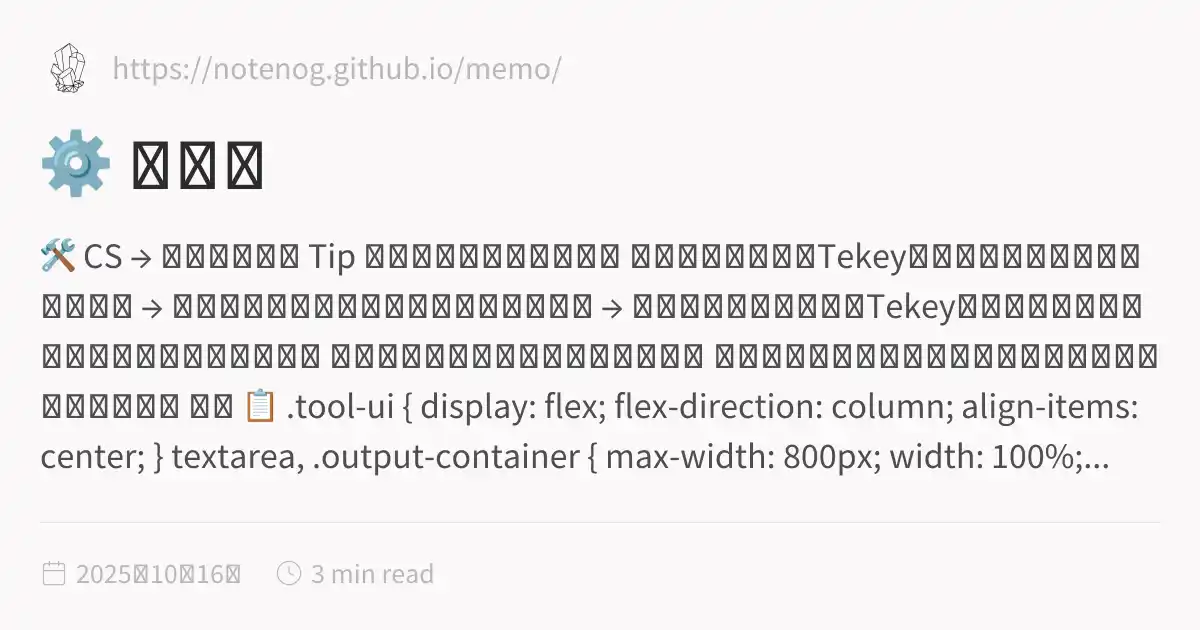
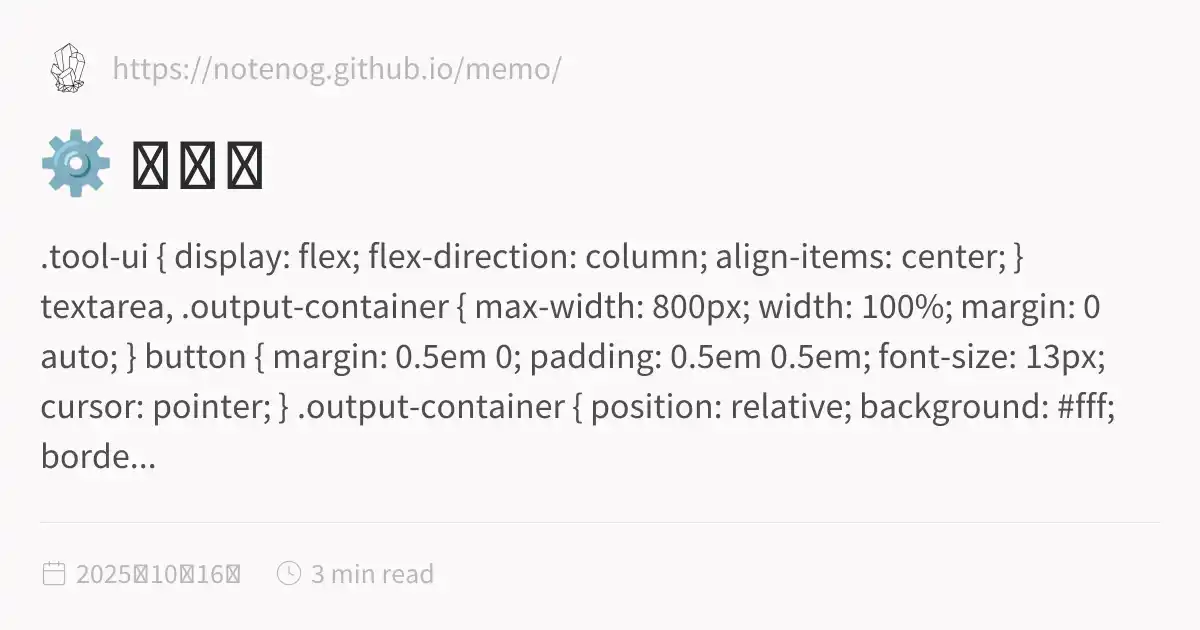
fix: Final push of clean assets with all content emitters disabled

Changed region(s): [[0.0308, 0.5429, 0.9867, 0.754], [0.0308, 0.3619, 0.9558, 0.5127]]

diff --git a/docs/inSANe_old/tool.html b/docs/inSANe_old/tool.html
@@ -1,5 +1,5 @@
 <!DOCTYPE html>
-<html lang="ja" dir="ltr"><head><title>⚙ ツール</title><meta charset="utf-8"/><link rel="preconnect" href="https://fonts.googleapis.com"/><link rel="preconnect" href="https://fonts.gstatic.com"/><link rel="stylesheet" href="https://fonts.googleapis.com/css2?family=Schibsted Grotesk:wght@400;700&amp;family=Source Sans Pro:ital,wght@0,400;0,600;1,400;1,600&amp;family=IBM Plex Mono:wght@400;600&amp;display=swap"/><link rel="preconnect" href="https://cdnjs.cloudflare.com" crossorigin="anonymous"/><meta name="viewport" content="width=device-width, initial-scale=1.0"/><meta name="og:site_name" content="MEMO"/><meta property="og:title" content="⚙ ツール"/><meta property="og:type" content="website"/><meta name="twitter:card" content="summary_large_image"/><meta name="twitter:title" content="⚙ ツール"/><meta name="twitter:description" content="🛠 CS → コマ情報整形 Tip キャラクターシート倉庫 さん上部にある「Tekeyフォーマット出力」をクリック → 全文をコピーして下部エリアにペースト → 「変換」をクリックでTekeyのコマ用に整形された文章が表示されます。 インセインにしか対応していません また、ｇのセッション周りのみでの使用を想定してます 変換 📋 .tool-ui { display: flex; flex-direction: column; align-items: center; } textarea, .output-container { max-width: 800px; width: 100%;..."/><meta property="og:description" content="🛠 CS → コマ情報整形 Tip キャラクターシート倉庫 さん上部にある「Tekeyフォーマット出力」をクリック → 全文をコピーして下部エリアにペースト → 「変換」をクリックでTekeyのコマ用に整形された文章が表示されます。 インセインにしか対応していません また、ｇのセッション周りのみでの使用を想定してます 変換 📋 .tool-ui { display: flex; flex-direction: column; align-items: center; } textarea, .output-container { max-width: 800px; width: 100%;..."/><meta property="og:image:alt" content="🛠 CS → コマ情報整形 Tip キャラクターシート倉庫 さん上部にある「Tekeyフォーマット出力」をクリック → 全文をコピーして下部エリアにペースト → 「変換」をクリックでTekeyのコマ用に整形された文章が表示されます。 インセインにしか対応していません また、ｇのセッション周りのみでの使用を想定してます 変換 📋 .tool-ui { display: flex; flex-direction: column; align-items: center; } textarea, .output-container { max-width: 800px; width: 100%;..."/><meta property="twitter:domain" content="https://notenog.github.io/memo/"/><meta property="og:url" content="https://https//notenog.github.io/memo/inSANe_old/tool"/><meta property="twitter:url" content="https://https//notenog.github.io/memo/inSANe_old/tool"/><link rel="icon" href="../static/icon.png"/><meta name="description" content="🛠 CS → コマ情報整形 Tip キャラクターシート倉庫 さん上部にある「Tekeyフォーマット出力」をクリック → 全文をコピーして下部エリアにペースト → 「変換」をクリックでTekeyのコマ用に整形された文章が表示されます。 インセインにしか対応していません また、ｇのセッション周りのみでの使用を想定してます 変換 📋 .tool-ui { display: flex; flex-direction: column; align-items: center; } textarea, .output-container { max-width: 800px; width: 100%;..."/><meta name="generator" content="Quartz"/><link href="../index.css" rel="stylesheet" type="text/css" spa-preserve/><style>.expand-button {
+<html lang="ja" dir="ltr"><head><title>⚙ ツール</title><meta charset="utf-8"/><link rel="preconnect" href="https://fonts.googleapis.com"/><link rel="preconnect" href="https://fonts.gstatic.com"/><link rel="stylesheet" href="https://fonts.googleapis.com/css2?family=Schibsted Grotesk:wght@400;700&amp;family=Source Sans Pro:ital,wght@0,400;0,600;1,400;1,600&amp;family=IBM Plex Mono:wght@400;600&amp;display=swap"/><link rel="preconnect" href="https://cdnjs.cloudflare.com" crossorigin="anonymous"/><meta name="viewport" content="width=device-width, initial-scale=1.0"/><meta name="og:site_name" content="MEMO"/><meta property="og:title" content="⚙ ツール"/><meta property="og:type" content="website"/><meta name="twitter:card" content="summary_large_image"/><meta name="twitter:title" content="⚙ ツール"/><meta name="twitter:description" content=".tool-ui { display: flex; flex-direction: column; align-items: center; } textarea, .output-container { max-width: 800px; width: 100%; margin: 0 auto; } button { margin: 0.5em 0; padding: 0.5em 0.5em; font-size: 13px; cursor: pointer; } .output-container { position: relative; background: #fff; borde..."/><meta property="og:description" content=".tool-ui { display: flex; flex-direction: column; align-items: center; } textarea, .output-container { max-width: 800px; width: 100%; margin: 0 auto; } button { margin: 0.5em 0; padding: 0.5em 0.5em; font-size: 13px; cursor: pointer; } .output-container { position: relative; background: #fff; borde..."/><meta property="og:image:alt" content=".tool-ui { display: flex; flex-direction: column; align-items: center; } textarea, .output-container { max-width: 800px; width: 100%; margin: 0 auto; } button { margin: 0.5em 0; padding: 0.5em 0.5em; font-size: 13px; cursor: pointer; } .output-container { position: relative; background: #fff; borde..."/><meta property="twitter:domain" content="https://notenog.github.io/memo/"/><meta property="og:url" content="https://https//notenog.github.io/memo/inSANe_old/tool"/><meta property="twitter:url" content="https://https//notenog.github.io/memo/inSANe_old/tool"/><link rel="icon" href="../static/icon.png"/><meta name="description" content=".tool-ui { display: flex; flex-direction: column; align-items: center; } textarea, .output-container { max-width: 800px; width: 100%; margin: 0 auto; } button { margin: 0.5em 0; padding: 0.5em 0.5em; font-size: 13px; cursor: pointer; } .output-container { position: relative; background: #fff; borde..."/><meta name="generator" content="Quartz"/><link href="../index.css" rel="stylesheet" type="text/css" spa-preserve/><style>.expand-button {
   position: absolute;
   display: flex;
   float: right;
@@ -116,43 +116,7 @@ pre:hover > .expand-button {
   padding: 0 12px;
   font-size: 14px;
 }
[1 lines of base64/hex data omitted]
-<hr/>
-<blockquote class="callout tip" data-callout="tip">
-<div class="callout-title">
-                  <div class="callout-icon"></div>
-                  <div class="callout-title-inner"><p>Tip</p></div>
-                  
-                </div>
-<div class="callout-content">
-<p><a href="https://character-sheets.appspot.com/" class="external">キャラクターシート倉庫<svg aria-hidden="true" class="external-icon" style="max-width:0.8em;max-height:0.8em;" viewBox="0 0 512 512"><path d="M320 0H288V64h32 82.7L201.4 265.4 178.7 288 224 333.3l22.6-22.6L448 109.3V192v32h64V192 32 0H480 320zM32 32H0V64 480v32H32 456h32V480 352 320H424v32 96H64V96h96 32V32H160 32z"></path></svg></a> さん上部にある「Tekeyフォーマット出力」をクリック →<br/>
-全文をコピーして下部エリアにペースト →<br/>
-「変換」をクリックでTekeyのコマ用に整形された文章が表示されます。</p>
-</div>
-</blockquote>
-<blockquote class="callout warning" data-callout="warning">
-<div class="callout-title">
-                  <div class="callout-icon"></div>
-                  <div class="callout-title-inner"><p>インセインにしか対応していません <br/>また、ｇのセッション周りのみでの使用を想定してます</p></div>
-                  
-                </div>
-</blockquote>
-<p><br/><br/></p>
-
-<div class="tool-ui">
-<div class="tool-ui">
-  <textarea id="input" placeholder="ここにコピペ"></textarea>
-  <br/>
-  <button onclick="convert()">変換</button>
-<p><br/><br/></p>
-  <div class="output-container">
-    <button class="copy-button" onclick="copyOutput()">📋</button>
-    <pre id="output"></pre>
-  </div>
-</div>
-<p><br/><br/><br/></p>
-
-<style>
[1 lines of base64/hex data omitted]
 
 .tool-ui {
   display: flex;
@@ -198,6 +162,41 @@ pre:hover > .expand-button {
     background: #ddd;
   }
 </style>
+<h2 id="-cs--コマ情報整形">🛠 CS → コマ情報整形<a role="anchor" aria-hidden="true" tabindex="-1" data-no-popover="true" href="#-cs--コマ情報整形" class="internal"><svg width="18" height="18" viewBox="0 0 24 24" fill="none" stroke="currentColor" stroke-width="2" stroke-linecap="round" stroke-linejoin="round"><path d="M10 13a5 5 0 0 0 7.54.54l3-3a5 5 0 0 0-7.07-7.07l-1.72 1.71"></path><path d="M14 11a5 5 0 0 0-7.54-.54l-3 3a5 5 0 0 0 7.07 7.07l1.71-1.71"></path></svg></a></h2>
+<hr/>
+<blockquote class="callout tip" data-callout="tip">
+<div class="callout-title">
+                  <div class="callout-icon"></div>
+                  <div class="callout-title-inner"><p>Tip</p></div>
+                  
+                </div>
+<div class="callout-content">
+<p><a href="https://character-sheets.appspot.com/" class="external">キャラクターシート倉庫<svg aria-hidden="true" class="external-icon" style="max-width:0.8em;max-height:0.8em;" viewBox="0 0 512 512"><path d="M320 0H288V64h32 82.7L201.4 265.4 178.7 288 224 333.3l22.6-22.6L448 109.3V192v32h64V192 32 0H480 320zM32 32H0V64 480v32H32 456h32V480 352 320H424v32 96H64V96h96 32V32H160 32z"></path></svg></a> さん上部にある「Tekeyフォーマット出力」をクリック →<br/>
+全文をコピーして下部エリアにペースト →<br/>
+「変換」をクリックでTekeyのコマ用に整形された文章が表示されます。</p>
+</div>
+</blockquote>
+<blockquote class="callout warning" data-callout="warning">
+<div class="callout-title">
+                  <div class="callout-icon"></div>
+                  <div class="callout-title-inner"><p>インセインにしか対応していません <br/>また、ｇのセッション周りのみでの使用を想定してます</p></div>
+                  
+                </div>
+</blockquote>
+<p><br/><br/></p>
+
+<div class="tool-ui">
+<div class="tool-ui">
+  <textarea id="input" placeholder="ここにコピペ"></textarea>
+  <br/>
+  <button onclick="convert()">変換</button>
+<p><br/><br/></p>
+  <div class="output-container">
+    <button class="copy-button" onclick="copyOutput()">📋</button>
+    <pre id="output"></pre>
+  </div>
+</div>
+<p><br/><br/><br/></p>
 
 <script>
 

diff --git a/docs/inSANe_old/index.html b/docs/inSANe_old/index.html
@@ -116,6 +116,6 @@ pre:hover > .expand-button {
   padding: 0 12px;
   font-size: 14px;
 }
[2 lines of base64/hex data omitted]
 </script><script type="module">function f(i,e){if(!i)return;function r(o){o.target===this&&(o.preventDefault(),o.stopPropagation(),e())}function t(o){o.key.startsWith("Esc")&&(o.preventDefault(),e())}i?.addEventListener("click",r),window.addCleanup(()=>i?.removeEventListener("click",r)),document.addEventListener("keydown",t),window.addCleanup(()=>document.removeEventListener("keydown",t))}function y(i){for(;i.firstChild;)i.removeChild(i.firstChild)}var h=class{constructor(e,r){this.container=e;this.content=r;this.setupEventListeners(),this.setupNavigationControls(),this.resetTransform()}isDragging=!1;startPan={x:0,y:0};currentPan={x:0,y:0};scale=1;MIN_SCALE=.5;MAX_SCALE=3;cleanups=[];setupEventListeners(){let e=this.onMouseDown.bind(this),r=this.onMouseMove.bind(this),t=this.onMouseUp.bind(this),o=this.resetTransform.bind(this);this.container.addEventListener("mousedown",e),document.addEventListener("mousemove",r),document.addEventListener("mouseup",t),window.addEventListener("resize",o),this.cleanups.push(()=>this.container.removeEventListener("mousedown",e),()=>document.removeEventListener("mousemove",r),()=>document.removeEventListener("mouseup",t),()=>window.removeEventListener("resize",o))}cleanup(){for(let e of this.cleanups)e()}setupNavigationControls(){let e=document.createElement("div");e.className="mermaid-controls";let r=this.createButton("+",()=>this.zoom(.1)),t=this.createButton("-",()=>this.zoom(-.1)),o=this.createButton("Reset",()=>this.resetTransform());e.appendChild(t),e.appendChild(o),e.appendChild(r),this.container.appendChild(e)}createButton(e,r){let t=document.createElement("button");return t.textContent=e,t.className="mermaid-control-button",t.addEventListener("click",r),window.addCleanup(()=>t.removeEventListener("click",r)),t}onMouseDown(e){e.button===0&&(this.isDragging=!0,this.startPan={x:e.clientX-this.currentPan.x,y:e.clientY-this.currentPan.y},this.container.style.cursor="grabbing")}onMouseMove(e){this.isDragging&&(e.preventDefault(),this.currentPan={x:e.clientX-this.startPan.x,y:e.clientY-this.startPan.y},this.updateTransform())}onMouseUp(){this.isDragging=!1,this.container.style.cursor="grab"}zoom(e){let r=Math.min(Math.max(this.scale+e,this.MIN_SCALE),this.MAX_SCALE),t=this.content.getBoundingClientRect(),o=t.width/2,n=t.height/2,c=r-this.scale;this.currentPan.x-=o*c,this.currentPan.y-=n*c,this.scale=r,this.updateTransform()}updateTransform(){this.content.style.transform=`translate(${this.currentPan.x}px, ${this.currentPan.y}px) scale(${this.scale})`}resetTransform(){this.scale=1;let e=this.content.querySelector("svg");this.currentPan={x:e.getBoundingClientRect().width/2,y:e.getBoundingClientRect().height/2},this.updateTransform()}},C=["--secondary","--tertiary","--gray","--light","--lightgray","--highlight","--dark","--darkgray","--codeFont"],E;document.addEventListener("nav",async()=>{let e=document.querySelector(".center").querySelectorAll("code.mermaid");if(e.length===0)return;E||=await import("https://cdnjs.cloudflare.com/ajax/libs/mermaid/11.4.0/mermaid.esm.min.mjs");let r=E.default,t=new WeakMap;for(let n of e)t.set(n,n.innerText);async function o(){for(let s of e){s.removeAttribute("data-processed");let a=t.get(s);a&&(s.innerHTML=a)}let n=C.reduce((s,a)=>(s[a]=window.getComputedStyle(document.documentElement).getPropertyValue(a),s),{}),c=document.documentElement.getAttribute("saved-theme")==="dark";r.initialize({startOnLoad:!1,securityLevel:"loose",theme:c?"dark":"base",themeVariables:{fontFamily:n["--codeFont"],primaryColor:n["--light"],primaryTextColor:n["--darkgray"],primaryBorderColor:n["--tertiary"],lineColor:n["--darkgray"],secondaryColor:n["--secondary"],tertiaryColor:n["--tertiary"],clusterBkg:n["--light"],edgeLabelBackground:n["--highlight"]}}),await r.run({nodes:e})}await o(),document.addEventListener("themechange",o),window.addCleanup(()=>document.removeEventListener("themechange",o));for(let n=0;n<e.length;n++){let v=function(){let g=l.querySelector("#mermaid-space"),m=l.querySelector(".mermaid-content");if(!m)return;y(m);let w=c.querySelector("svg").cloneNode(!0);m.appendChild(w),l.classList.add("active"),g.style.cursor="grab",u=new h(g,m)},M=function(){l.classList.remove("active"),u?.cleanup(),u=null},c=e[n],s=c.parentElement,a=s.querySelector(".clipboard-button"),d=s.querySelector(".expand-button"),p=window.getComputedStyle(a),L=a.offsetWidth+parseFloat(p.marginLeft||"0")+parseFloat(p.marginRight||"0");d.style.right=`calc(${L}px + 0.3rem)`,s.prepend(d);let l=s.querySelector("#mermaid-container");if(!l)return;let u=null;d.addEventListener("click",v),f(l,M),window.addCleanup(()=>{u?.cleanup(),d.removeEventListener("click",v)})}});
 </script><script src="https://cdn.jsdelivr.net/npm/katex@0.16.11/dist/contrib/copy-tex.min.js" type="application/javascript"></script><script src="../postscript.js" type="module"></script></html>

diff --git a/content/inSANe_old/tool.md b/content/inSANe_old/tool.md
@@ -2,39 +2,6 @@
 title: "⚙ ツール"
 draft: false
 ---
-
-## 🛠 CS → コマ情報整形
-___
-
-> [!tip] 
-> [キャラクターシート倉庫](https://character-sheets.appspot.com/) さん上部にある「Tekeyフォーマット出力」をクリック →  
-> 全文をコピーして下部エリアにペースト →  
-> 「変換」をクリックでTekeyのコマ用に整形された文章が表示されます。
-  
-  
-> [!warning]  インセインにしか対応していません<br>また、ｇのセッション周りのみでの使用を想定してます
-
-<br><br>
-
-<!-- ここからHTML UI部分 -->
-<div class="tool-ui">
-<div class="tool-ui">
-  <textarea id="input" placeholder="ここにコピペ"></textarea>
-  <br>
-  <button onclick="convert()">変換</button>
-
-<br><br>
-
-  <div class="output-container">
-    <button class="copy-button" onclick="copyOutput()">📋</button>
-    <pre id="output"></pre>
-  </div>
-</div>
-
-<br><br><br>
-
-<!-- 👇ここに空行を入れる！ -->
-
 <style>
 
 .tool-ui {
@@ -81,6 +48,38 @@ ___
     background: #ddd;
   }
 </style>
+
+
+## 🛠 CS → コマ情報整形
+___
+
+> [!tip] 
+> [キャラクターシート倉庫](https://character-sheets.appspot.com/) さん上部にある「Tekeyフォーマット出力」をクリック →  
+> 全文をコピーして下部エリアにペースト →  
+> 「変換」をクリックでTekeyのコマ用に整形された文章が表示されます。
+  
+  
+> [!warning]  インセインにしか対応していません<br>また、ｇのセッション周りのみでの使用を想定してます
+
+<br><br>
+
+<!-- ここからHTML UI部分 -->
+<div class="tool-ui">
+<div class="tool-ui">
+  <textarea id="input" placeholder="ここにコピペ"></textarea>
+  <br>
+  <button onclick="convert()">変換</button>
+
+<br><br>
+
+  <div class="output-container">
+    <button class="copy-button" onclick="copyOutput()">📋</button>
+    <pre id="output"></pre>
+  </div>
+</div>
+
+<br><br><br>
+
 
 <!-- 👇ここに空行を入れる！ -->
 
